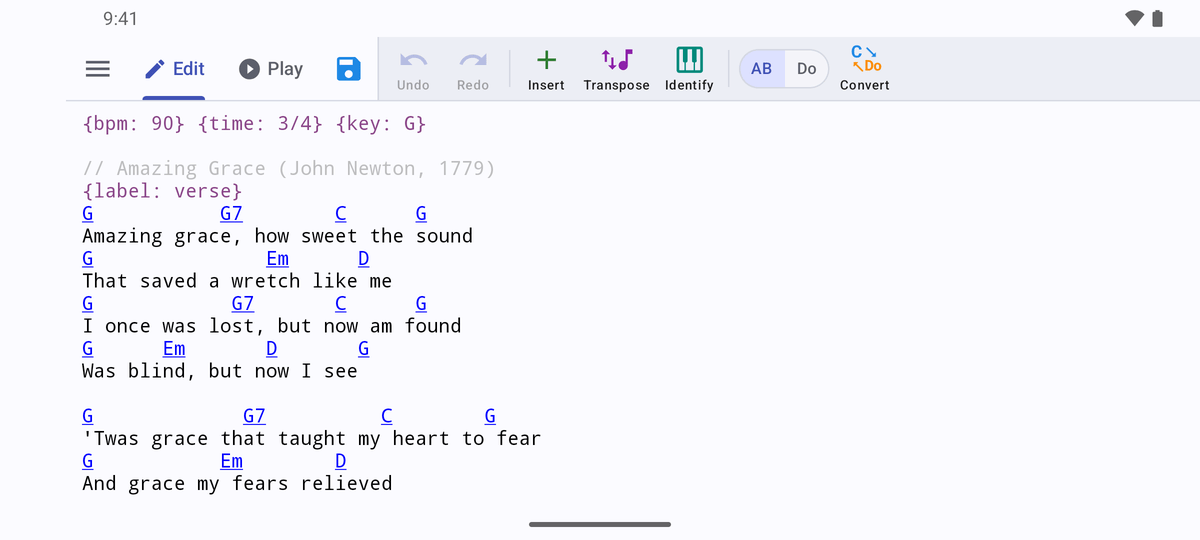
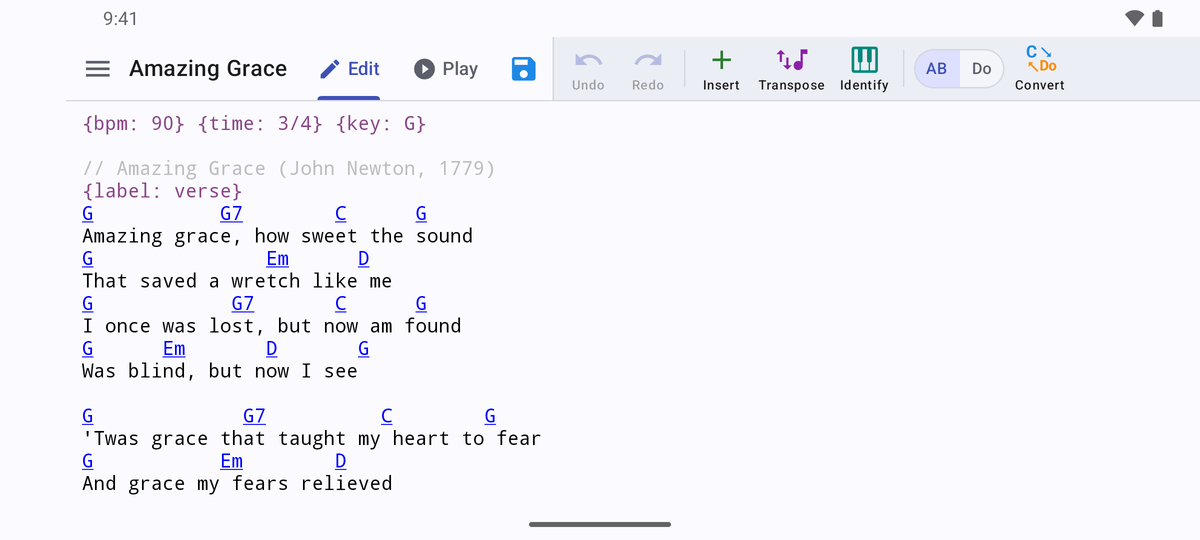
Guide shot: phone landscape Edit with its title

diff --git a/android/tools/HELP_SHOTS.md b/android/tools/HELP_SHOTS.md
@@ -167,7 +167,7 @@ legend. Pages are named `file: section`.
 | `chord-sheet-fret-cards.png` | Fret cards view (Guitar Standard voicing): a chord diagram per chord with zoom − / +. (phone) | chord_sheet: The Four Views |
 | `chord-sheet-tab.png` | Tab view (Guitar Standard voicing): six-line tablature. (phone) | chord_sheet: The Four Views |
 | `landscape-play.png`<br>`landscape-play.dark.png` | Phone in landscape, Play tab: text on the left, the chord sheet and the compact player in the right column, the vertical resize handle between them. (phone, landscape) | chord_sheet: Showing and Resizing the Strip; interface: Edit and Play |
-| `landscape-edit.png` | Phone in landscape, Edit tab: the tabs and the Edit ribbon share one line, the title is hidden. (phone, landscape) | interface: The App Bar (phone held sideways) |
+| `landscape-edit.png` | Phone in landscape, Edit tab: a short title, the tabs and the Edit ribbon share one line. (phone, landscape) | interface: The App Bar (phone held sideways) |
 | `edit-keyboard.png` | A new song in the Edit tab with the keyboard open, after typing C Am F G (each chord blue). (phone) | getting_started: Your First Chord Sheet |
 | `edit-keyboard-collapsed.png` | Phone in landscape typing in Edit: the keyboard leaves little room, so the app bar and ribbon hide and the floating Undo / Redo chip sits above the keyboard. (phone, landscape) | interface: The Edit Ribbon |
 | `directive-hint.png` | Edit tab with the keyboard open, the cursor inside a red {bpm: 500}: the hint strip above the keyboard says 'Tempo must be 20-400' in red, then the {bpm} forms in monospace. (phone) | interface: Directive Hints |
